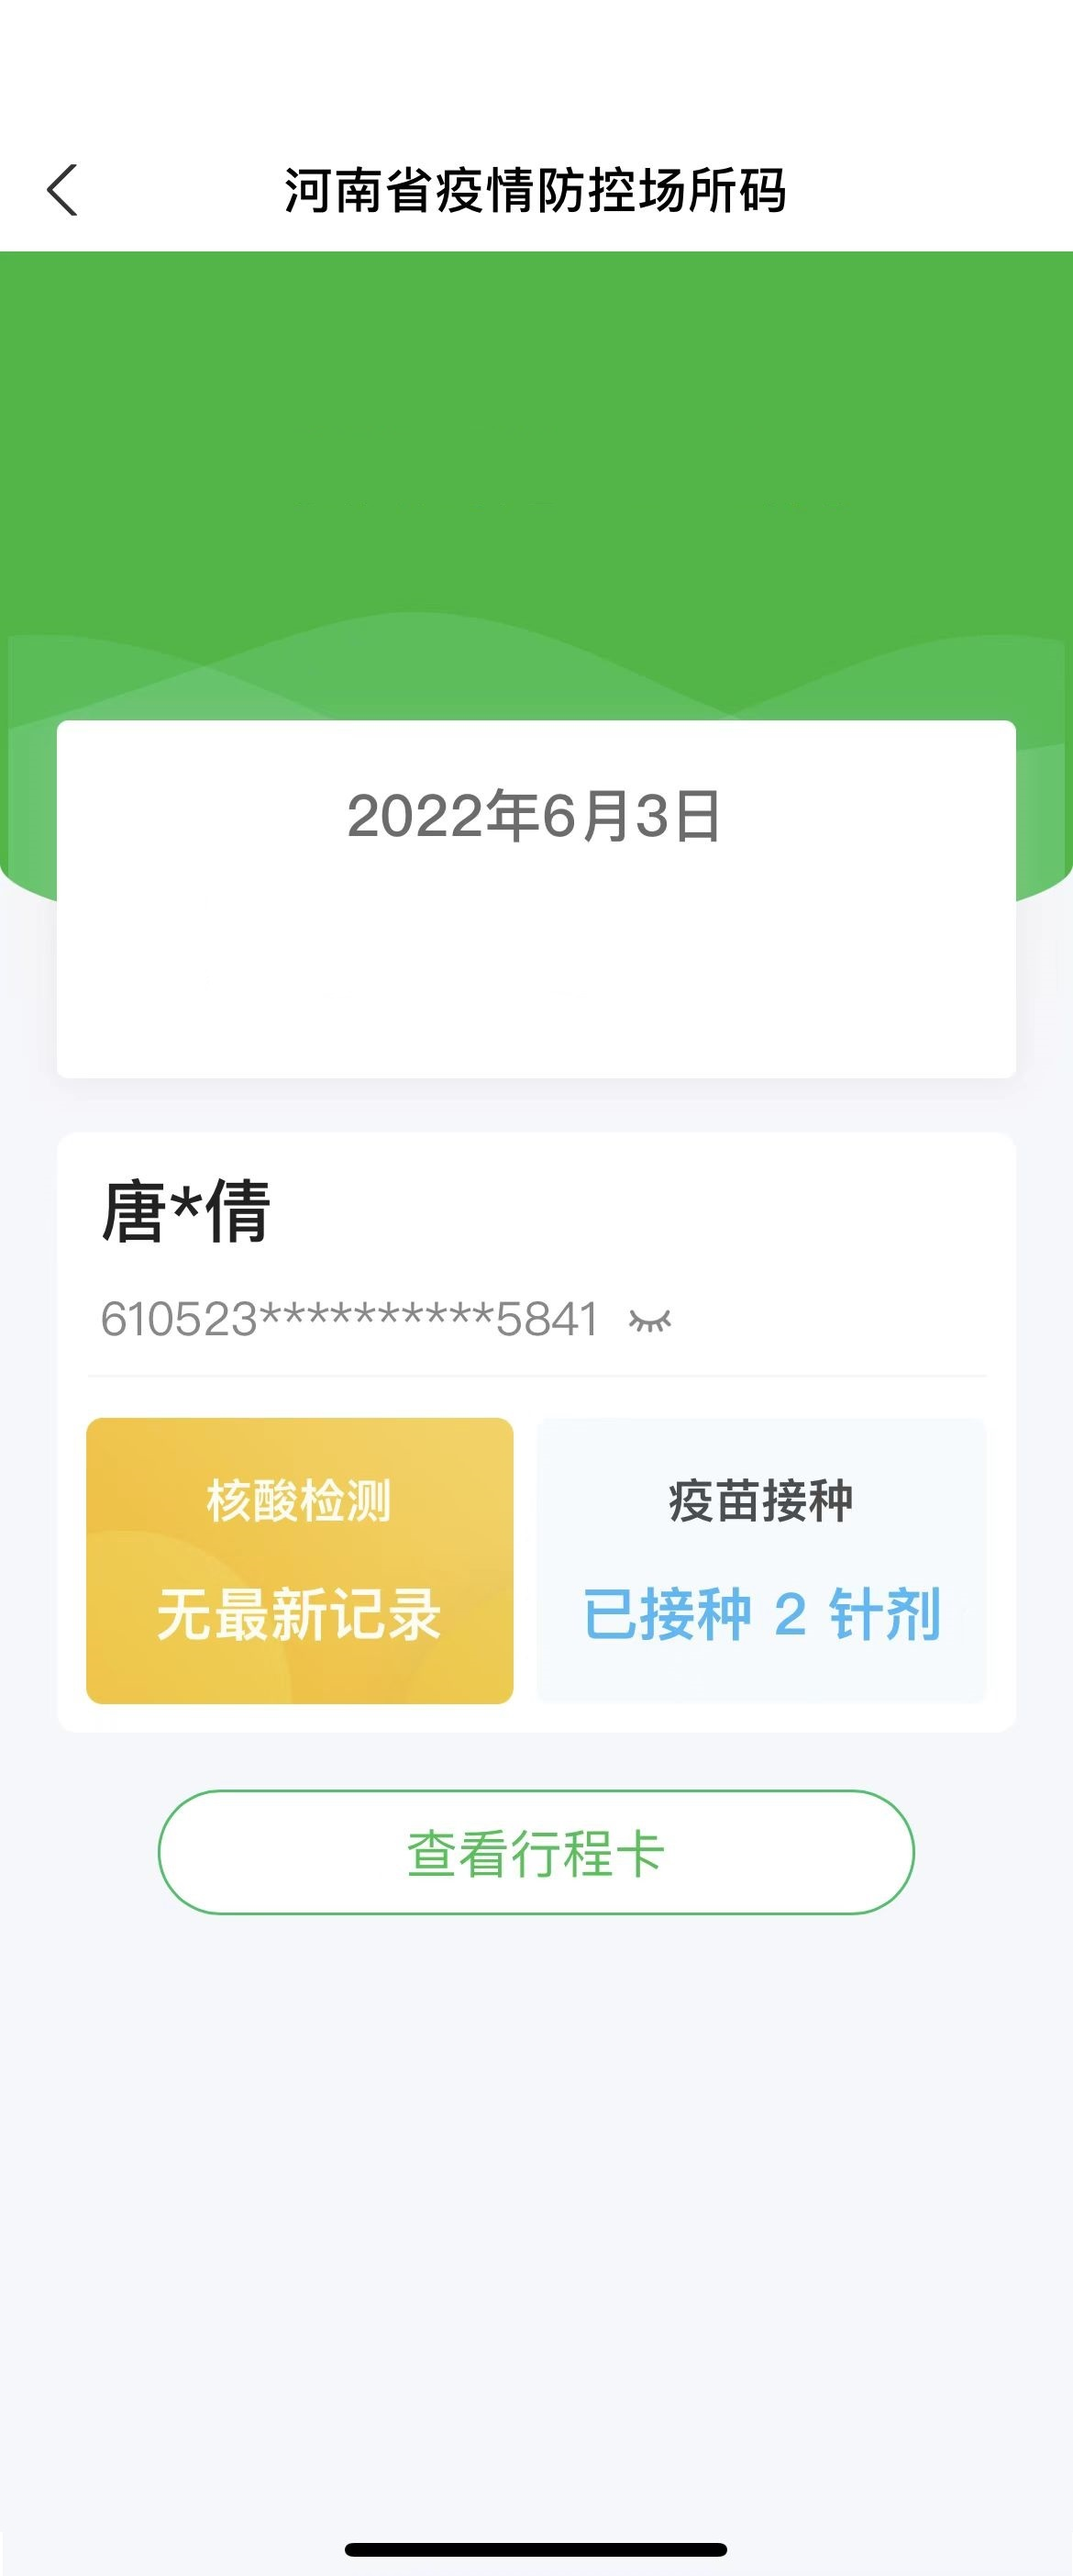
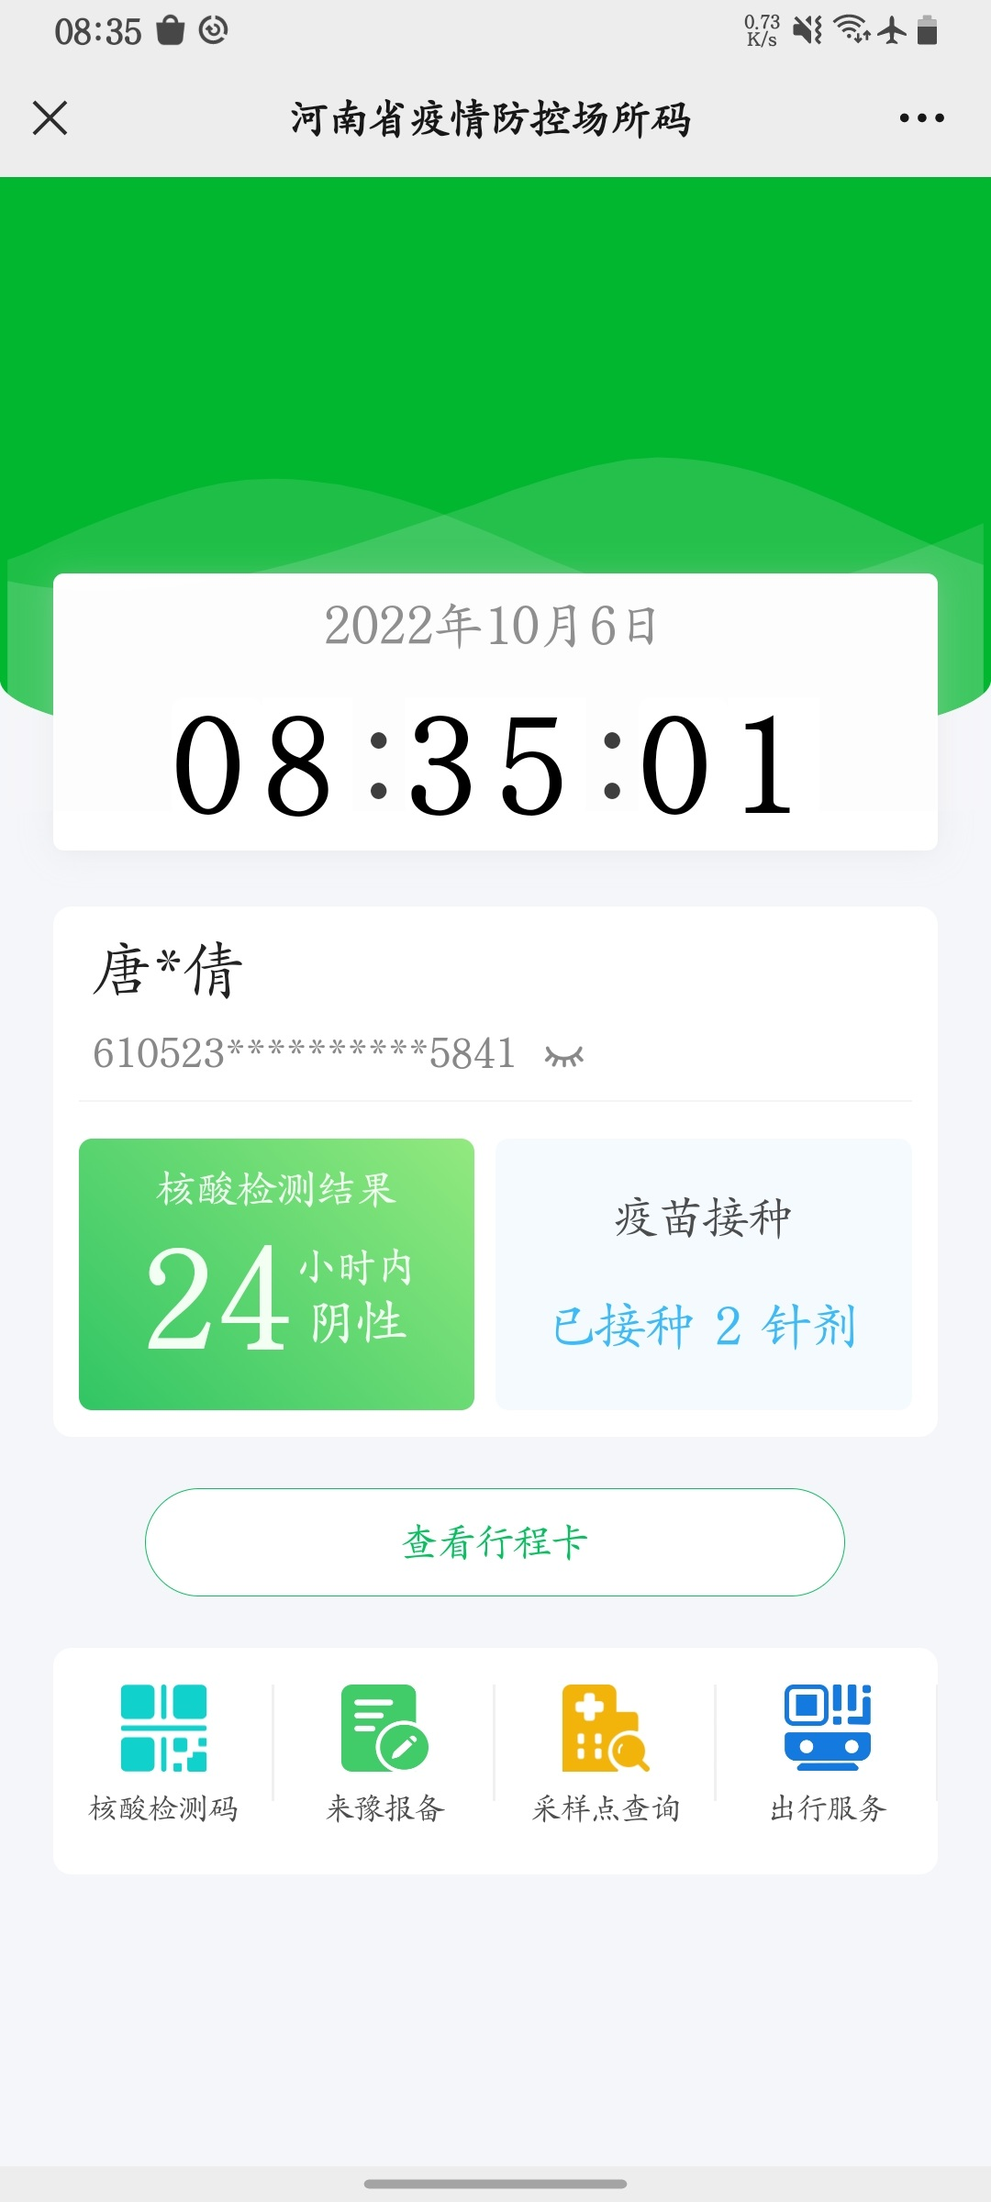
资源

diff --git a/zjlm.html b/zjlm.html
@@ -7,15 +7,14 @@
     <style type="text/css">
         .auto-style1 {
             position: absolute;
-            height: 210px;
-            width: 680px;
-            left: 250px;
-            top: 930px;
-            z-index: 99;
+            height: 160px;
+            width: 710px;
+            left: 210px;
+            top: 760px;
+            z-index: 999;
             font-size:140px;
             text-align:left;
             color:black;
-            font-family:微软雅黑;
             color: #212121;
             background-color: white;
         }
@@ -82,7 +81,7 @@
             width: 193px;
             z-index: 99;
             left: 110px;
-            top: 1280px;
+            top: 1030px;
             text-align:left;
             font-size:73px;
             font-family: 微软雅黑;
@@ -92,14 +91,14 @@
         }
         .auto-style3 {
             position: absolute;
+            z-index: 999;
             height: 70px;
-            width: 410px;
-            z-index: 99;
-            left: 385px;
-            top: 855px;
+            width: 430px;
+            left: 355px;
+            top: 650px;
             font-size:50px;
             text-align:center;
-            color: #656565;
+            color: #8F8F8F;
             font-family: 微软雅黑;
             line-height: 70px;
             font-size: 60px;
@@ -109,12 +108,11 @@
             position: absolute;
             height: 90px;
             line-height: 90px;
-            width: 1165px;
+            width: 1070px;
             left: 10px;
-            top: 470px;
+            top: 370px;
             z-index: 99;
-            font-size:67px;
-            font-weight: normal;
+            font-size:60px;
             text-align:center;
             color:white;
             padding-top:0px;
@@ -122,19 +120,20 @@
         }
         .img_style{
             position: absolute;
-            z-index: 999;
-            top:780px;
-            left: 460px;
+            z-index: 900;
+            top:500px;
+            left: 8px;
+            width:1080px;
         }
         .auto-style5{
             position:absolute;
             height: 63px;
-            width: 180px;
+            width: 143px;
             z-index: 99;
             left: 110px;
-            top: 1410px;
+            top: 1120px;
             text-align:left;
-            font-size:50px;
+            font-size:40px;
             font-family: 微软雅黑;
             color: #868686;
             line-height: 63px;
@@ -143,12 +142,12 @@
         .auto-style6{
             position: absolute;
             height: 63px;
-            width: 123px;
+            width: 115px;
             z-index: 99;
-            left: 550px;
-            top: 1410px;
+            left: 475px;
+            top: 1120px;
             text-align:left;
-            font-size:50px;
+            font-size:40px;
             font-family: 微软雅黑;
             color: #868686;
             line-height: 63px;
@@ -158,7 +157,7 @@
 </head>
 <body>
     <img id="back" src="img/zzlm.jpg">
-    <img src="img/zzlogo.png" class="img_style">
+    <img src="img/zzlogo.gif" class="img_style">
     <div class="auto-style4"></div>
     <div class="auto-style1">
         <div class="clock">

diff --git a/index.html b/index.html
@@ -89,13 +89,13 @@
             <div class="row cl">
                 <label class="formControls col-sm-3 col-xs-3 text-r">位置：</label>
                 <div class="formControls col-sm-6 col-xs-6">
-                    <input type="text" id="location" class="input-text radius" value="欢迎来到郑州东站！"/>
+                    <input type="text" id="location" class="input-text radius" value="郑州东站3层进站口2"/>
                 </div>
             </div>
             <div class="row cl">
                 <div class="formControls col-sm-3 col-xs-3"></div>
                 <div class="formControls col-sm-6 col-xs-6">
-                    <a id="zz" class="btn btn-danger radius">郑州绿码</a>
+                    <a id="zz" class="btn btn-danger radius">郑州场所码</a>
                 </div>
             </div>
             <div class="row cl hidden">
